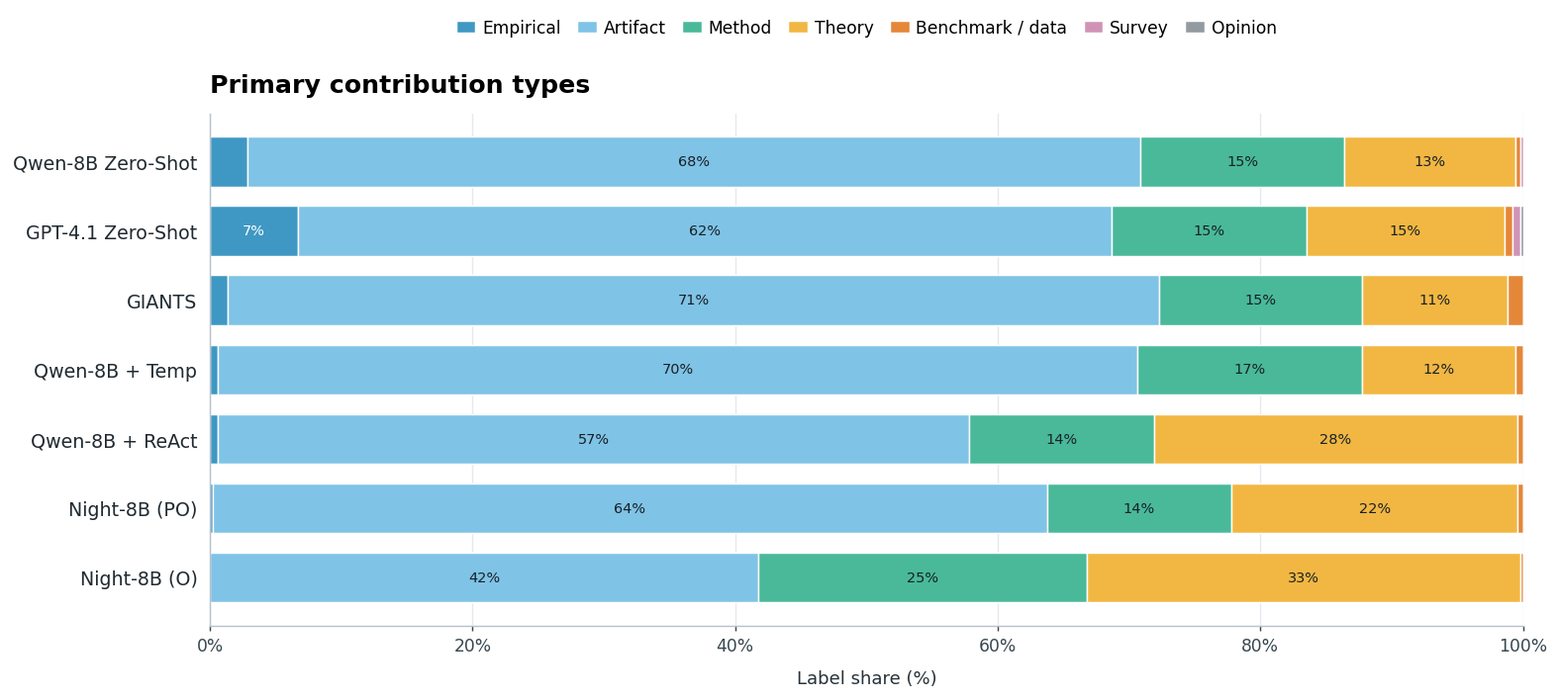
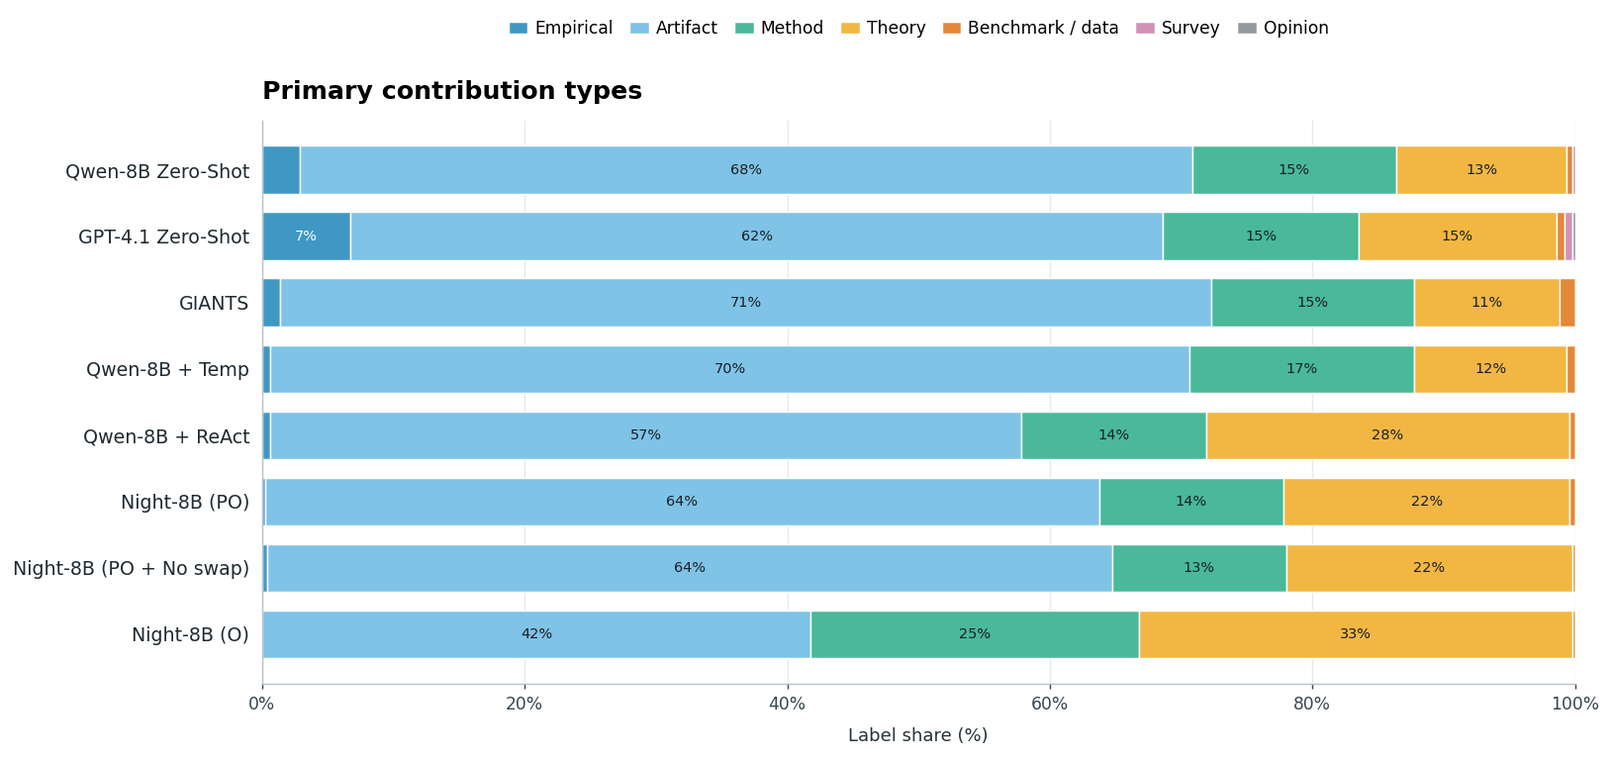
updated night scientist page

diff --git a/night_scientist.html b/night_scientist.html
@@ -108,6 +108,41 @@ a:hover{color:#B5501F}
 .ns-defs dl div{display:grid;grid-template-columns:150px minmax(0,1fr);gap:12px;font-size:16px;line-height:1.45}
 .ns-defs dt{font-weight:700;color:#12294A}
 .ns-defs dd{margin:0;color:#3A4458}
+.ns-hero{position:relative;overflow:hidden;background:#19314B;color:#FFFFFF;border-bottom:6px solid #E8713A}
+.ns-hero-art{position:absolute;top:0;right:0;width:50%;height:100%;object-fit:cover;object-position:55% 45%;-webkit-mask-image:linear-gradient(90deg,transparent 0%,#000 22%);mask-image:linear-gradient(90deg,transparent 0%,#000 22%)}
+.ns-hero-inner{position:relative;max-width:1320px;margin:0 auto;padding:52px 48px 56px;box-sizing:border-box}
+.ns-hero-text{width:56%;max-width:700px;display:flex;flex-direction:column;gap:16px}
+.ns-hero-kicker{margin:0;font-size:17px;color:#F5B400;letter-spacing:0.04em}
+.ns-hero-title{margin:0;font-family:Poppins,sans-serif;line-height:1.16;display:flex;flex-direction:column;gap:2px}
+.ns-hero-l1{font-weight:400;color:#F5B400;font-size:clamp(26px,2.7vw,42px)}
+.ns-hero-l2{text-wrap:balance;font-weight:600;font-style:italic;color:#FFFFFF;font-size:clamp(26px,2.7vw,42px)}
+.ns-hero-authors{display:flex;flex-wrap:wrap;column-gap:18px;row-gap:6px;font-size:17px;margin-top:6px}
+.ns-hero-affil{display:flex;flex-wrap:wrap;align-items:center;column-gap:20px;row-gap:6px;font-size:15px;color:#C9D3E3}
+.ns-hero-nav{display:flex;flex-wrap:wrap;gap:12px;margin-top:6px}
+@media (min-width:1700px){.ns-hero-art{width:calc(50% - (100vw - 1700px) / 4)}}
+@media (max-width:860px){.ns-hero-art{position:static;display:block;width:100%;height:240px;object-position:50% 40%;-webkit-mask-image:linear-gradient(180deg,#000 70%,transparent 100%);mask-image:linear-gradient(180deg,#000 70%,transparent 100%)}.ns-hero-inner{padding:8px 16px 36px}.ns-hero-text{width:auto}.ns-hero-authors{font-size:16px}}
+[id]{scroll-margin-top:20px}
+.ns-take{display:flex;gap:16px;align-items:flex-start;background:#1C3662;border-radius:16px;padding:22px 24px}
+.ns-take-n{font-family:Poppins,sans-serif;font-weight:600;font-size:28px;line-height:1;color:#E8713A;flex-shrink:0}
+.ns-take h3{margin:0 0 6px;font-family:Poppins,sans-serif;font-weight:600;font-size:19px;color:#FFFFFF}
+.ns-take p{margin:0;font-size:17px;line-height:1.55;color:#D5DDEA}
+.ns-toc{position:fixed;right:24px;bottom:24px;z-index:100;display:flex;flex-direction:column;align-items:flex-end;gap:12px;opacity:0;transform:translateY(12px);pointer-events:none;visibility:hidden;transition:opacity .2s ease,transform .2s ease,visibility .2s}
+.ns-toc.shown{opacity:1;transform:none;pointer-events:auto;visibility:visible}
+.ns-toc-btn{display:inline-flex;align-items:center;gap:10px;min-height:52px;padding:0 20px 0 18px;border:none;border-radius:999px;background:#13294B;color:#FFFFFF;font-family:Poppins,sans-serif;font-weight:500;font-size:15px;cursor:pointer;box-shadow:0 8px 24px rgba(12,27,51,0.32),inset 0 0 0 1.5px rgba(245,180,0,0.55)}
+.ns-toc-btn:hover{background:#1C3662}
+.ns-toc-btn:focus-visible{outline:3px solid #E8713A;outline-offset:3px}
+.ns-toc.open .ns-toc-btn{background:#F5B400;color:#12294A}
+.ns-toc-panel{width:300px;max-width:calc(100vw - 48px);max-height:min(560px,calc(100vh - 120px));overflow-y:auto;background:#FFFFFF;border:1px solid #E3DED3;border-radius:16px;box-shadow:0 16px 40px rgba(12,27,51,0.25);padding:14px 10px 12px;box-sizing:border-box}
+.ns-toc-panel[hidden]{display:none}
+.ns-toc-head{display:flex;align-items:center;justify-content:space-between;gap:10px;padding:2px 10px 10px;border-bottom:1px solid #EEE9DF;margin-bottom:6px;font-family:Poppins,sans-serif;font-weight:600;font-size:14px;color:#12294A}
+.ns-toc-top{font-family:"Source Sans 3",sans-serif;font-weight:600;font-size:14px;color:#B5501F;text-decoration:none}
+.ns-toc-panel ol{list-style:none;margin:0;padding:0;display:flex;flex-direction:column}
+.ns-toc-panel li a{display:block;padding:8px 10px;border-radius:8px;font-size:16px;line-height:1.3;color:#24304A;text-decoration:none;border-left:3px solid transparent}
+.ns-toc-panel li.sub a{padding-left:26px;font-size:15px;color:#4A5468}
+.ns-toc-panel li a:hover{background:#F3F5F9;color:#12294A}
+.ns-toc-panel li a.active{background:#FFF4DA;color:#12294A;font-weight:600;border-left-color:#E8713A}
+@media (max-width:560px){.ns-toc{right:16px;bottom:16px}.ns-toc-label{display:none}.ns-toc-btn{padding:0;width:52px;justify-content:center}}
+@media (prefers-reduced-motion:reduce){html{scroll-behavior:auto !important}.ns-toc{transition:none}}
 @media (max-width:980px){.ns-split{grid-template-columns:minmax(0,1fr);gap:18px}.ns-notes{padding-top:0}.ns-steps{grid-template-columns:repeat(2,minmax(0,1fr))}}
 @media (max-width:560px){.ns-steps{grid-template-columns:minmax(0,1fr)}.ns-defs dl div{grid-template-columns:minmax(0,1fr);gap:2px}.ns-stat-num{font-size:32px}}
 @media (max-width:980px){.ns-grid4{grid-template-columns:repeat(2,minmax(0,1fr))}.ns-grid3,.ns-grid2,.ns-results{grid-template-columns:minmax(0,1fr)}.ns-h2{font-size:28px}}
@@ -119,11 +154,13 @@ a:hover{color:#B5501F}
 <div style="width: 100%; overflow-x: clip; display: flex; flex-direction: column; background: #F6F4EF">
 
 <!-- ============ HERO ============ -->
-<header style="background: #13294B; display: flex; flex-direction: column">
-<h1 class="ns-sr">Reinforcing Agentic Creativity in Scientific Ideation with Night Science</h1>
-<img src="images/night_scientist/header.jpg" alt="Reinforcing Agentic Creativity in Scientific Ideation with Night Science: an AI agent brainstorming with researchers at night" style="display: block; width: 100%; height: auto; max-height: 320px; object-fit: cover; object-position: 50% 100%">
-<div class="ns-pad" style="max-width: 1120px; width: 100%; margin: 0 auto; padding: 26px 40px 30px; box-sizing: border-box; display: flex; flex-direction: column; gap: 14px; align-items: center; text-align: center">
-<div style="display: flex; flex-wrap: wrap; justify-content: center; column-gap: 22px; row-gap: 8px; font-size: 18px; color: #FFFFFF">
+<header id="top" class="ns-hero">
+<img class="ns-hero-art" src="images/night_scientist/illustration.jpg" alt="Illustration: an AI agent with a flame of ideas brainstorming with a group of researchers at night">
+<div class="ns-hero-inner">
+<div class="ns-hero-text">
+<p class="ns-hero-kicker"><span class="ns-sc">AI Night-Scientist</span></p>
+<h1 class="ns-hero-title"><span class="ns-hero-l1">Reinforcing Agentic Creativity in</span><span class="ns-hero-l2">Scientific Ideation with Night Science</span></h1>
+<div class="ns-hero-authors">
 <span><a class="ns-author" href="https://pkargupta.github.io/">Priyanka Kargupta</a><sup style="color: #F5B400">1,*</sup></span>
 <span><a class="ns-author" href="https://scholar.google.com/citations?user=wb2Ll78AAAAJ&amp;hl=en">Silviu Cucerzan</a><sup style="color: #F5B400">2</sup></span>
 <span><a class="ns-author" href="https://www.microsoft.com/en-us/research/people/shmahaj/">Shweti Mahajan</a><sup style="color: #F5B400">3</sup></span>
@@ -132,13 +169,13 @@ a:hover{color:#B5501F}
 <span><a class="ns-author" href="http://www.ryenwhite.com/">Ryen W. White</a><sup style="color: #F5B400">2</sup></span>
 <span><a class="ns-author" href="https://www.microsoft.com/en-us/research/people/sjauhar/">Sujay Kumar Jauhar</a><sup style="color: #F5B400">2,*</sup></span>
 </div>
-<div style="display: flex; flex-wrap: wrap; justify-content: center; align-items: center; column-gap: 24px; row-gap: 8px; font-size: 15px; color: #C9D3E3">
+<div class="ns-hero-affil">
 <span style="display: inline-flex; align-items: center; gap: 8px"><img src="images/night_scientist/uiuc.png" alt="" style="height: 22px; width: auto"><span><sup style="color: #F5B400">1</sup>University of Illinois Urbana-Champaign</span></span>
 <span style="display: inline-flex; align-items: center; gap: 8px"><img src="images/night_scientist/microsoft.png" alt="" style="height: 17px; width: 17px"><span><sup style="color: #F5B400">2</sup>Microsoft</span></span>
 <span><sup style="color: #F5B400">3</sup>Microsoft Research</span>
 <span style="color: #AEBBD0"><sup>*</sup>Corresponding: <a href="mailto:pk36@illinois.edu" style="color: #FFFFFF">pk36@illinois.edu</a>, <a href="mailto:sjauhar@microsoft.com" style="color: #FFFFFF">sjauhar@microsoft.com</a></span>
 </div>
-<nav aria-label="Paper links" style="display: flex; flex-wrap: wrap; justify-content: center; gap: 12px; margin-top: 4px">
+<nav aria-label="Paper links" class="ns-hero-nav">
 <a class="ns-btn ns-btn-primary" href="#">
 <svg width="18" height="18" viewBox="0 0 24 24" fill="none" stroke="currentColor" stroke-width="2" stroke-linecap="round" stroke-linejoin="round" aria-hidden="true"><path d="M14 3H6a2 2 0 0 0-2 2v14a2 2 0 0 0 2 2h12a2 2 0 0 0 2-2V9z"></path><path d="M14 3v6h6"></path><path d="M8 13h8M8 17h6"></path></svg>
 <span>Paper [ARXIV LINK]</span></a>
@@ -150,14 +187,14 @@ a:hover{color:#B5501F}
 <span>BibTeX</span></a>
 </nav>
 </div>
-<div style="height: 6px; background: #E8713A"></div>
+</div>
 </header>
 
 <!-- ============ MOTIVATION ============ -->
-<section class="ns-pad" style="max-width: 1120px; width: 100%; margin: 0 auto; padding: 52px 40px 8px; box-sizing: border-box; display: flex; flex-direction: column; gap: 24px">
+<section id="motivation" class="ns-pad" style="max-width: 1120px; width: 100%; margin: 0 auto; padding: 52px 40px 8px; box-sizing: border-box; display: flex; flex-direction: column; gap: 24px">
 <div style="display: flex; flex-direction: column; gap: 12px; max-width: 820px">
 <p class="ns-eyebrow">Why night science?</p>
-<h2 class="ns-h2">LLMs are good at day science. Discovery also needs night science.</h2>
+<h2 class="ns-h2">LLMs are hyper-focused on day science. Discovery also needs night science.</h2>
 <p class="ns-p">LLMs tend to give the most likely answer. That works for math and code, but it makes their research ideas predictable and similar to each other.</p>
 </div>
 <div class="ns-grid2">
@@ -172,7 +209,7 @@ a:hover{color:#B5501F}
 <svg width="30" height="30" viewBox="0 0 24 24" fill="none" stroke="#F5B400" stroke-width="2" stroke-linecap="round" stroke-linejoin="round" aria-hidden="true" style="flex-shrink: 0"><path d="M21 12.8A9 9 0 1 1 11.2 3a7 7 0 0 0 9.8 9.8z"></path></svg>
 <div style="display: flex; flex-direction: column; gap: 6px">
 <h3 style="margin: 0; font-family: Poppins, sans-serif; font-weight: 600; font-size: 20px; color: #FFFFFF">Night science</h3>
-<p style="margin: 0; font-size: 18px; line-height: 1.55; color: #D5DDEA">Loose and exploratory. Borrow ideas from distant fields, follow hunches, question what everyone assumes. Penicillin came from a moment like this.</p>
+<p style="margin: 0; font-size: 18px; line-height: 1.55; color: #D5DDEA">Loose and exploratory. Borrow ideas from distant fields, spontaneous debates, follow hunches, question what everyone assumes. Breakthroughs like chemotherapy came from a moment like this.</p>
 </div>
 </div>
 </div>
@@ -227,15 +264,15 @@ a:hover{color:#B5501F}
 </section>
 
 <!-- ============ HOW IT WORKS ============ -->
-<section class="ns-pad" style="max-width: 1120px; width: 100%; margin: 0 auto; padding: 40px 40px 24px; box-sizing: border-box; display: flex; flex-direction: column; gap: 24px">
+<section id="how-it-works" class="ns-pad" style="max-width: 1120px; width: 100%; margin: 0 auto; padding: 40px 40px 24px; box-sizing: border-box; display: flex; flex-direction: column; gap: 24px">
 <div style="display: flex; flex-direction: column; gap: 12px; max-width: 820px">
 <h2 class="ns-h2">How it works</h2>
 <p class="ns-p">Given a research problem, the model writes a research proposal in up to five steps.</p>
 </div>
 <ol class="ns-steps">
 <li><span class="ns-step-n">1</span><div><strong>Choose.</strong> Pick an action and a creativity level, like “search, level 4.”</div></li>
-<li><span class="ns-step-n">2</span><div><strong>Act.</strong> Search arXiv, simulate a debate, or challenge an assumption. Add the result to the notes.</div></li>
-<li><span class="ns-step-n">3</span><div><strong>Repeat, then write.</strong> Keep going until the model stops or hits five steps, then hand in the proposal.</div></li>
+<li><span class="ns-step-n">2</span><div><strong>Act.</strong> Search arXiv, simulate a debate, or challenge an assumption. Add to the agent memory.</div></li>
+<li><span class="ns-step-n">3</span><div><strong>Repeat, then write.</strong> Keep going until the model stops or hits max steps, then hand in the proposal.</div></li>
 <li><span class="ns-step-n">4</span><div><strong>Learn</strong> (training only). Score the proposal. RL (GRPO) makes the choices behind good proposals more likely.</div></li>
 </ol>
 <figure style="margin: 0" class="ns-fig">
@@ -245,10 +282,10 @@ a:hover{color:#B5501F}
 </section>
 
 <!-- ============ ACTION SPACE ============ -->
-<section class="ns-pad" style="max-width: 1120px; width: 100%; margin: 0 auto; padding: 40px 40px 24px; box-sizing: border-box; display: flex; flex-direction: column; gap: 20px">
+<section id="actions" class="ns-pad" style="max-width: 1120px; width: 100%; margin: 0 auto; padding: 40px 40px 24px; box-sizing: border-box; display: flex; flex-direction: column; gap: 20px">
 <div style="display: flex; flex-direction: column; gap: 12px; max-width: 820px">
-<h2 class="ns-h2">Five actions, each with a creativity dial</h2>
-<p class="ns-p">Search, Debate and Spark have levels from 1 to 5 (levels 1, 3 and 5 shown). Write and Stop have no dial, so the final proposal reflects the exploring that came before it.</p>
+<h2 class="ns-h2">Five actions, each defined with creativity levels</h2>
+<p class="ns-p">Search, Debate and Spark have levels from 1 to 5 (levels 1, 3 and 5 shown). Write and Stop have no creativity levels, so the final proposal reflects the exploring that came before it.</p>
 </div>
 <div class="ns-scroll">
 <table class="ns-tbl" style="min-width: 760px">
@@ -272,12 +309,12 @@ a:hover{color:#B5501F}
 <tr>
 <td><span class="ns-act"><span class="ns-dot" style="background: #D2601F">d</span>Write</span></td>
 <td>Turn everything so far into a proposal draft.</td>
-<td>No dial</td>
+<td>Fixed</td>
 </tr>
 <tr>
 <td><span class="ns-act"><span class="ns-dot" style="background: #C00000">e</span>Stop</span></td>
 <td>Finish and hand in the proposal.</td>
-<td>No dial</td>
+<td>Fixed</td>
 </tr>
 </tbody>
 </table>
@@ -285,7 +322,7 @@ a:hover{color:#B5501F}
 </section>
 
 <!-- ============ REWARDS ============ -->
-<section class="ns-pad" style="max-width: 1120px; width: 100%; margin: 0 auto; padding: 40px 40px 64px; box-sizing: border-box; display: flex; flex-direction: column; gap: 20px">
+<section id="scoring" class="ns-pad" style="max-width: 1120px; width: 100%; margin: 0 auto; padding: 40px 40px 64px; box-sizing: border-box; display: flex; flex-direction: column; gap: 20px">
 <div style="display: flex; flex-direction: column; gap: 12px; max-width: 820px">
 <h2 class="ns-h2">How proposals are scored</h2>
 <p class="ns-p">We split each proposal into its individual ideas and grade each one, checking against related papers.</p>
@@ -297,7 +334,7 @@ a:hover{color:#B5501F}
 </div>
 <div class="ns-level" style="border-top-color: #12294A">
 <h3 class="ns-level-name">Feasibility</h3>
-<p class="ns-level-text">Is the plan specific and believable? We keep the weakest plan’s score, since one bad step can sink a project.</p>
+<p class="ns-level-text">Is the plan specific and believable? We keep the weakest idea's score, since one bad step can sink a project.</p>
 </div>
 <div class="ns-level" style="border-top-color: #12294A">
 <h3 class="ns-level-name">Relevance</h3>
@@ -320,7 +357,7 @@ a:hover{color:#B5501F}
 </div>
 
 <!-- (a) quality -->
-<div class="ns-split">
+<div id="results-quality" class="ns-split">
 <div style="display: flex; flex-direction: column; gap: 10px">
 <h3 class="ns-tbl-title">(a) Proposal quality</h3>
 <div class="ns-scroll">
@@ -367,7 +404,7 @@ a:hover{color:#B5501F}
 </div>
 
 <!-- (b) diversity -->
-<div class="ns-split">
+<div id="results-diversity" class="ns-split">
 <div style="display: flex; flex-direction: column; gap: 10px">
 <h3 class="ns-tbl-title">(b) How varied are the ideas?</h3>
 <div class="ns-scroll">
@@ -379,8 +416,8 @@ a:hover{color:#B5501F}
 <tr><td>GIANTS-4B (RL)</td><td class="num">0.773</td><td class="num">0.347</td></tr>
 <tr><td>Qwen3 + Temp (RL)</td><td class="num">0.792</td><td class="num">0.339</td></tr>
 <tr><td>Qwen3 + ReAct (RL)</td><td class="num"><span class="second">0.888</span></td><td class="num">0.390</td></tr>
-<tr><td>Night-8B (R<sub>po</sub>)</td><td class="num">0.853</td><td class="num">0.362</td></tr>
-<tr class="ns-mark"><td><span class="ns-badge">2</span>&#160;&#160;+ no random swaps</td><td class="num">0.844</td><td class="num">0.358</td></tr>
+<tr class="ns-mark"><td><span class="ns-badge">2</span>Night-8B (R<sub>po</sub>)</td><td class="num">0.853</td><td class="num">0.362</td></tr>
+<tr class="ns-mark"><td><span class="ns-badge" style="visibility: hidden" aria-hidden="true">2</span>&#160;&#160;+ no random swaps</td><td class="num">0.844</td><td class="num">0.358</td></tr>
 <tr class="ours"><td><span class="ns-badge">1</span><strong>Night-8B (R<sub>out</sub>)</strong></td><td class="num best">0.943</td><td class="num"><span class="second">0.425</span></td></tr>
 </tbody>
 </table>
@@ -389,12 +426,12 @@ a:hover{color:#B5501F}
 <div class="ns-notes">
 <div class="ns-how"><strong>How to read it.</strong> We label every proposal in two ways (defined below) and measure how evenly the proposals spread across seven categories. 1.0 means perfectly even; low means most proposals fall in one bucket.</div>
 <div class="ns-read"><span class="ns-badge">1</span><p>Night-8B covers the widest range of research moves: 0.943, up from 0.738 for its base model, which is about 1.4 more categories.</p></div>
-<div class="ns-read"><span class="ns-badge">2</span><p>The random swaps early in training matter. Without them, paradigm diversity drops from 0.943 to 0.844, and contribution diversity from 0.425 to 0.358.</p></div>
+<div class="ns-read"><span class="ns-badge">2</span><p>The random swaps early in training help. Removing them from the process-reward model lowers diversity on both labels: 0.853 → 0.844 for paradigms and 0.362 → 0.358 for contributions.</p></div>
 </div>
 </div>
 
 <!-- diversity explainer -->
-<div style="background: #F6F4EF; border-radius: 18px; padding: 28px; display: flex; flex-direction: column; gap: 22px">
+<div id="diversity-labels" style="background: #F6F4EF; border-radius: 18px; padding: 28px; display: flex; flex-direction: column; gap: 22px">
 <div style="display: flex; flex-direction: column; gap: 8px; max-width: 860px">
 <h3 style="margin: 0; font-family: Poppins, sans-serif; font-weight: 600; font-size: 22px; color: #12294A">What do the two labels mean?</h3>
 <p style="margin: 0; font-size: 17px; line-height: 1.6; color: #3A4458">A <strong>paradigm</strong> is the research move behind the idea: how it turns an opening into a direction (categories from <a href="https://arxiv.org/abs/2607.01233">Chen et al., 2026</a>). A <strong>contribution type</strong> is what the work delivers in the end. They are independent: a new tool (artifact) could come from making a method more robust or from unifying two fields.</p>
@@ -441,7 +478,7 @@ a:hover{color:#B5501F}
 </div>
 
 <!-- (c) reward ablation -->
-<div class="ns-split">
+<div id="results-reward" class="ns-split">
 <div style="display: flex; flex-direction: column; gap: 10px">
 <h3 class="ns-tbl-title">(c) Rewarding the final proposal vs. every step</h3>
 <div class="ns-scroll">
@@ -538,7 +575,7 @@ a:hover{color:#B5501F}
 </section>
 
 <!-- ============ ANALYSIS FIGURES ============ -->
-<section class="ns-pad" style="max-width: 1120px; width: 100%; margin: 0 auto; padding: 48px 40px 72px; box-sizing: border-box; display: flex; flex-direction: column; gap: 28px">
+<section id="analysis" class="ns-pad" style="max-width: 1120px; width: 100%; margin: 0 auto; padding: 48px 40px 72px; box-sizing: border-box; display: flex; flex-direction: column; gap: 28px">
 <div style="display: flex; flex-direction: column; gap: 14px; max-width: 860px">
 <h2 class="ns-h2">What the model learned</h2>
 </div>
@@ -562,8 +599,25 @@ a:hover{color:#B5501F}
 </figure>
 </section>
 
+<!-- ============ KEY TAKEAWAYS ============ -->
+<section id="takeaways" style="background: #13294B; color: #FFFFFF">
+<div class="ns-pad" style="max-width: 1120px; width: 100%; margin: 0 auto; padding: 64px 40px; box-sizing: border-box; display: flex; flex-direction: column; gap: 26px">
+<div style="display: flex; flex-direction: column; gap: 12px; max-width: 820px">
+<p class="ns-eyebrow" style="color: #F5B400">Conclusion</p>
+<h2 class="ns-h2" style="color: #FFFFFF">Key takeaways</h2>
+</div>
+<div class="ns-grid2">
+<div class="ns-take"><span class="ns-take-n">01</span><div><h3>Creativity can be learned</h3><p>RL teaches the model when and how to leave the obvious path. The 14B model gains 32.0 citation points and 66.2 originality points over its base model.</p></div></div>
+<div class="ns-take"><span class="ns-take-n">02</span><div><h3>Say what kind of creativity you want</h3><p>Creativity levels written out in words beat simply raising the temperature. Randomness alone does not produce useful new ideas.</p></div></div>
+<div class="ns-take"><span class="ns-take-n">03</span><div><h3>Broader ideas, not just bolder ones</h3><p>Proposals spread across more kinds of research moves (+27.8%) and contributions (+14.9%), instead of mostly “build a system.”</p></div></div>
+<div class="ns-take"><span class="ns-take-n">04</span><div><h3>Rewards shape how the model explores</h3><p>Scoring every step makes the model reach for Spark more often and gives the most original proposals. Scoring only the final proposal gives the highest citation impact.</p></div></div>
+</div>
+<p style="margin: 0; font-size: 18px; line-height: 1.6; color: #D5DDEA; max-width: 860px; border-top: 1px solid #28457A; padding-top: 20px">AI Night-Scientist is meant to be a creative collaborator for researchers, not a replacement. Its proposals are starting points that still need expert judgment and testing.</p>
+</div>
+</section>
+
 <!-- ============ BIBTEX ============ -->
-<section id="bibtex" style="background: #13294B; color: #FFFFFF">
+<section id="bibtex" style="background: #0F2240; color: #FFFFFF">
 <div class="ns-pad" style="max-width: 1120px; width: 100%; margin: 0 auto; padding: 64px 40px 56px; box-sizing: border-box; display: flex; flex-direction: column; gap: 18px">
 <div style="display: flex; flex-wrap: wrap; align-items: center; justify-content: space-between; gap: 14px">
 <h2 class="ns-h2" style="color: #FFFFFF">Citation</h2>
@@ -594,6 +648,52 @@ b.addEventListener('click',function(){var t=document.getElementById('bib').textC
 function done(){l.textContent='Copied';setTimeout(function(){l.textContent='Copy BibTeX';},1800);}
 if(navigator.clipboard&&navigator.clipboard.writeText){navigator.clipboard.writeText(t).then(done,function(){});}
 else{var r=document.createRange();r.selectNodeContents(document.getElementById('bib'));var sel=getSelection();sel.removeAllRanges();sel.addRange(r);try{document.execCommand('copy');done();}catch(e){}}});})();
+</script>
+<!-- ============ FLOATING TABLE OF CONTENTS ============ -->
+<div class="ns-toc" id="ns-toc">
+<nav class="ns-toc-panel" id="ns-toc-panel" aria-label="On this page" hidden>
+<div class="ns-toc-head"><span>On this page</span><a href="#top" class="ns-toc-top">Back to top ↑</a></div>
+<ol>
+<li><a href="#motivation" data-toc="motivation">Why night science?</a></li>
+<li><a href="#abstract" data-toc="abstract">Abstract</a></li>
+<li><a href="#method" data-toc="method">Three levels of creativity</a></li>
+<li><a href="#how-it-works" data-toc="how-it-works">How it works</a></li>
+<li><a href="#actions" data-toc="actions">Actions &amp; creativity levels</a></li>
+<li><a href="#scoring" data-toc="scoring">How proposals are scored</a></li>
+<li><a href="#results" data-toc="results">Results</a></li>
+<li class="sub"><a href="#results-quality" data-toc="results-quality">Proposal quality</a></li>
+<li class="sub"><a href="#results-diversity" data-toc="results-diversity">Idea diversity</a></li>
+<li class="sub"><a href="#diversity-labels" data-toc="diversity-labels">Paradigms vs. contribution types</a></li>
+<li class="sub"><a href="#results-reward" data-toc="results-reward">Outcome vs. step rewards</a></li>
+<li><a href="#qualitative" data-toc="qualitative">Qualitative example</a></li>
+<li><a href="#analysis" data-toc="analysis">What the model learned</a></li>
+<li><a href="#takeaways" data-toc="takeaways">Key takeaways</a></li>
+<li><a href="#bibtex" data-toc="bibtex">Citation</a></li>
+</ol>
+</nav>
+<button type="button" class="ns-toc-btn" id="ns-toc-btn" aria-expanded="false" aria-controls="ns-toc-panel" aria-label="Table of contents">
+<svg width="20" height="20" viewBox="0 0 24 24" fill="none" stroke="currentColor" stroke-width="2.2" stroke-linecap="round" stroke-linejoin="round" aria-hidden="true"><path d="M8 6h13M8 12h13M8 18h13"></path><circle cx="3.5" cy="6" r="1"></circle><circle cx="3.5" cy="12" r="1"></circle><circle cx="3.5" cy="18" r="1"></circle></svg>
+<span class="ns-toc-label">Contents</span>
+</button>
+</div>
+<script>
+(function(){
+var root=document.getElementById('ns-toc'),btn=document.getElementById('ns-toc-btn'),panel=document.getElementById('ns-toc-panel');
+if(!btn)return;
+function setOpen(o){panel.hidden=!o;btn.setAttribute('aria-expanded',o?'true':'false');root.classList.toggle('open',o);}
+btn.addEventListener('click',function(e){e.stopPropagation();setOpen(panel.hidden);});
+panel.addEventListener('click',function(e){if(e.target.closest('a'))setOpen(false);});
+document.addEventListener('click',function(e){if(!root.contains(e.target))setOpen(false);});
+document.addEventListener('keydown',function(e){if(e.key==='Escape'&&!panel.hidden){setOpen(false);btn.focus();}});
+var hero=document.getElementById('top');
+function vis(){var y=hero?hero.getBoundingClientRect().bottom:0;var show=y<120;root.classList.toggle('shown',show);if(!show)setOpen(false);}
+var links=[].slice.call(panel.querySelectorAll('a[data-toc]'));
+var targets=links.map(function(a){return document.getElementById(a.getAttribute('data-toc'));});
+function spy(){var cur=-1;for(var i=0;i<targets.length;i++){var t=targets[i];if(t&&t.getBoundingClientRect().top<160)cur=i;}
+links.forEach(function(a,i){var on=i===cur;a.classList.toggle('active',on);if(on)a.setAttribute('aria-current','true');else a.removeAttribute('aria-current');});}
+function onScroll(){vis();spy();}
+window.addEventListener('scroll',onScroll,{passive:true});window.addEventListener('resize',onScroll);onScroll();
+})();
 </script>
 </body>
 </html>
